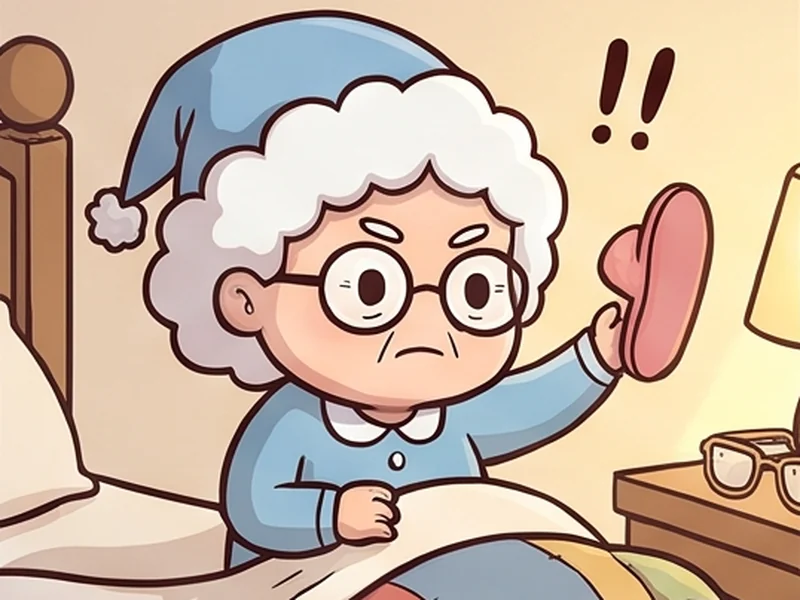
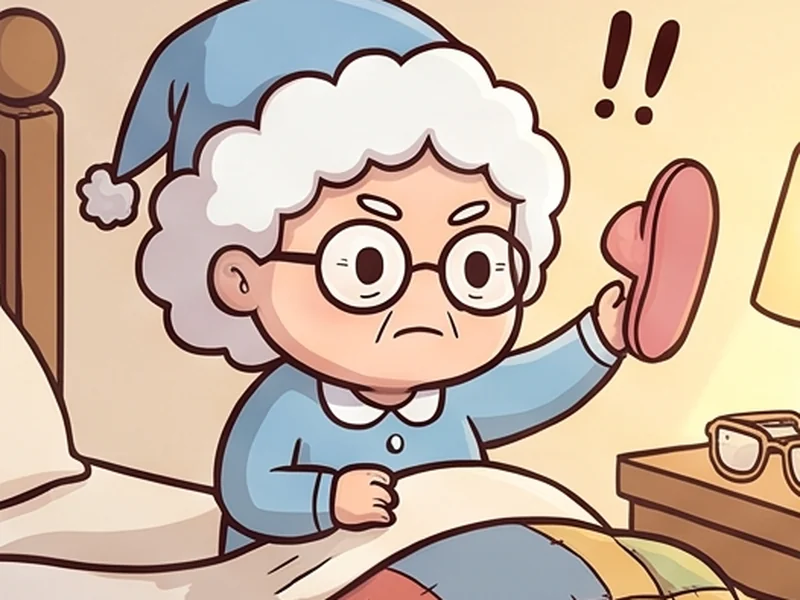
Grandma: line up the animation frames so she stops jumping around
Each state's frames are aligned on Grandma's head and shoulders, with a
wider crop so the room still shows. The awake loop uses frames 1-3; frame 4
has a different background and flashed on every loop.

Claude-Session: https://claude.ai/code/session_01GBvaCMxA9i3oLdNdvkV61T

diff --git a/grandma.html b/grandma.html
@@ -373,7 +373,7 @@
   const GRANDMA_ART = {
     sleep: [1, 2, 3, 4].map(i => `assets/grandma_sleep${i}.webp`),
     stir: [1, 2, 3, 4].map(i => `assets/grandma_stir${i}.webp`),
-    awake: [1, 2, 3, 4].map(i => `assets/grandma_awake${i}.webp`),
+    awake: [1, 2, 3].map(i => `assets/grandma_awake${i}.webp`),   // frame 4 has a different background, so it is left out of the loop
   };
   const GRANDMA_FRAME_S = { sleep: 0.6, stir: 0.28, awake: 0.22 };   // seconds each picture stays
 
